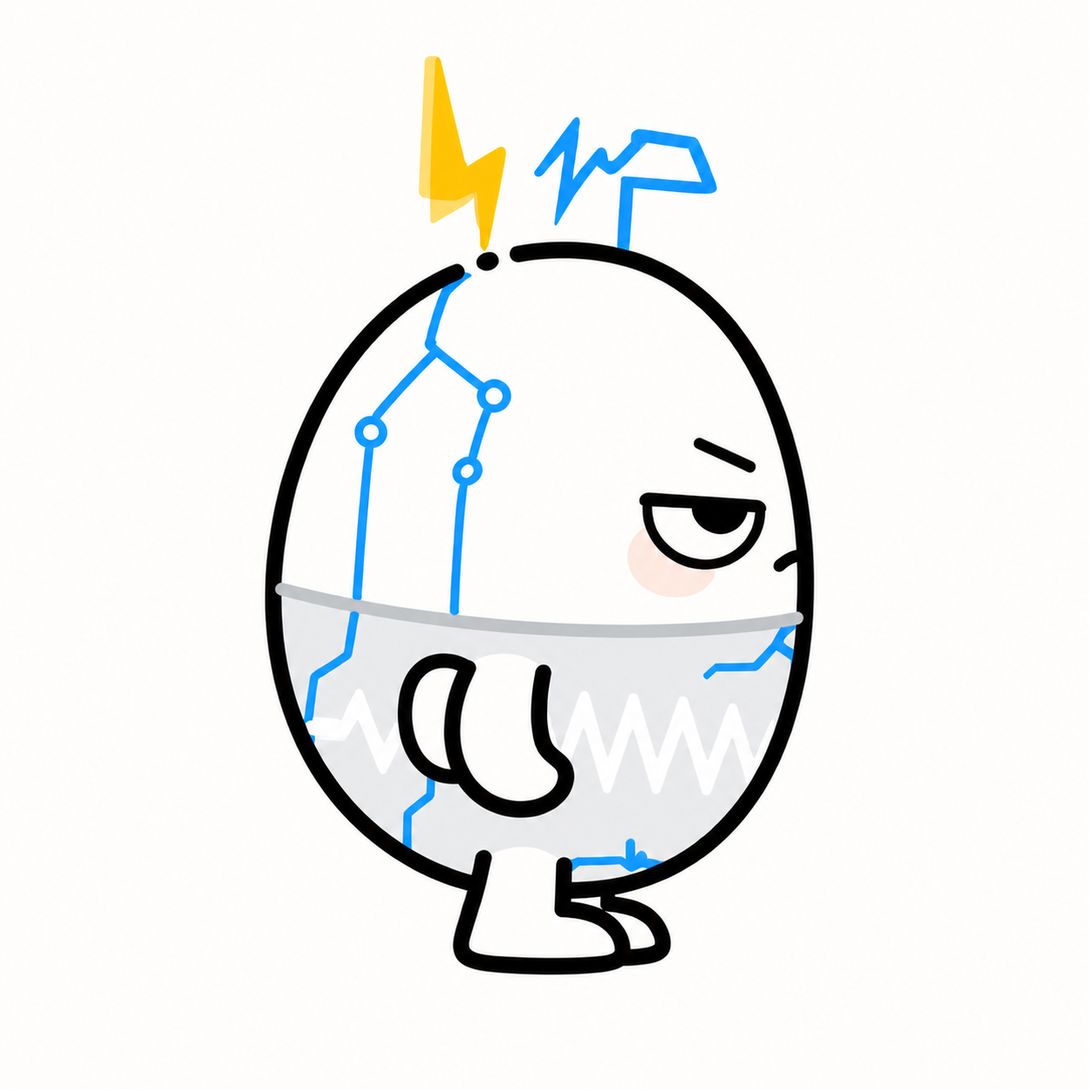
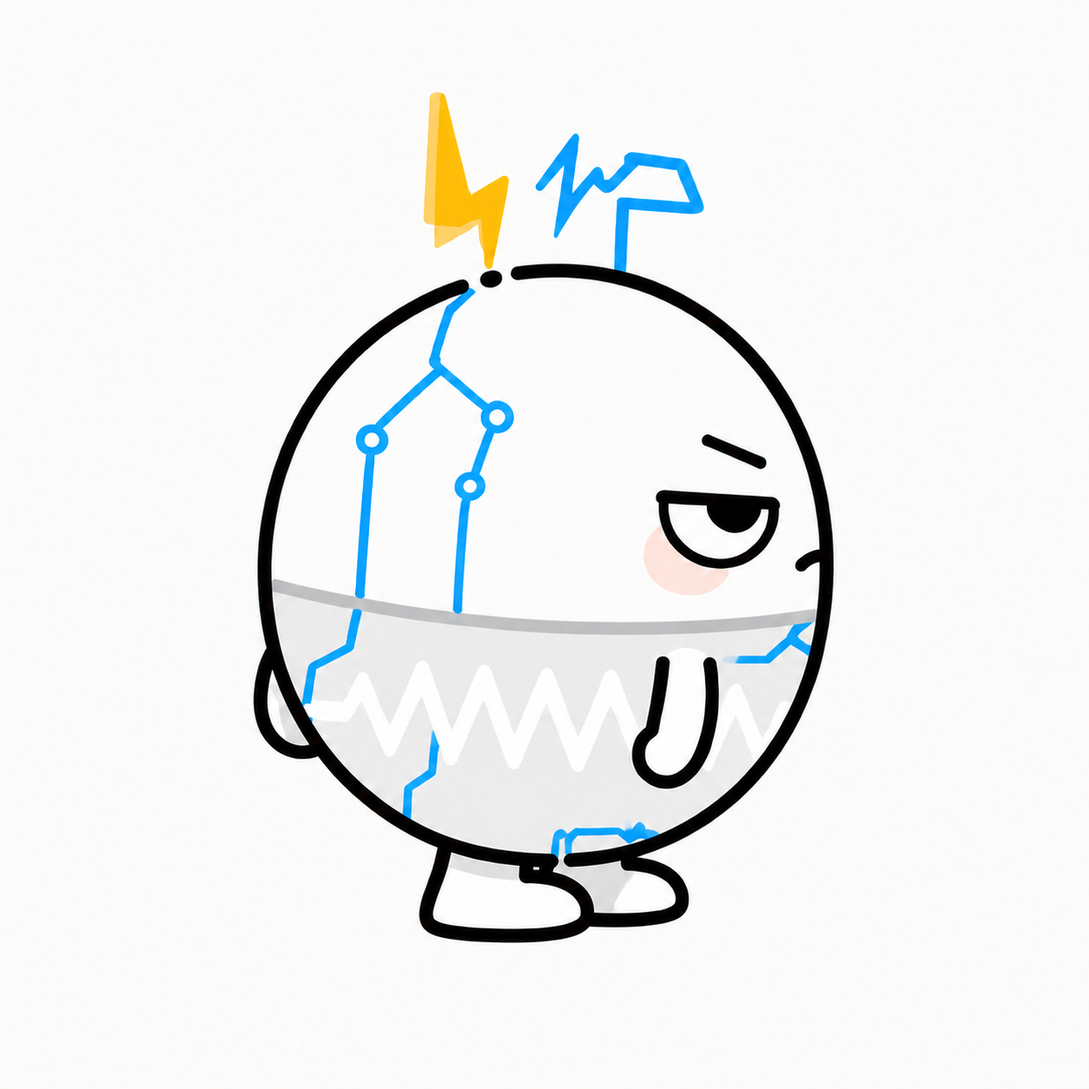
fix: restore mascot right-view roundness

Changed region(s): [[0.2177, 0.0311, 0.7775, 0.9019], [0.311, 0.311, 0.3421, 0.3421]]

diff --git a/episodes/014-nobody-spoils-you-buff/04-prompts/video-prompts-v1.md b/episodes/014-nobody-spoils-you-buff/04-prompts/video-prompts-v1.md
@@ -7,11 +7,11 @@
 ```text
 【输出规格与关键帧】生成2.5秒、竖屏9:16、原创Q版二维手绘图生有声视频。首帧严格使用03-visuals/keyframes-v1/01-street-xiaohao.png；固定正面中近景，不改变街道、人物比例和留白。尾帧小耗儿闭嘴并完全静止至少0.25秒。
 
-【永久身份锁定】assets/brand/resistor-mascot-identity-master-original.jpg是小耗儿唯一身份与结构参考。保持单一白色蛋形身体、浅灰电阻区域、白色锯齿纹、蓝色电路纹、头顶黄色闪电与蓝色电脉冲、两只短手、两条极短腿、半垂眼和唯一无牙短黑嘴。禁止老鼠耳朵、尾巴、毛发、长鼻、长腿、牙齿、舌头、衣服和额外肢体。画面内只有一个小耗儿。
+【永久身份锁定】assets/brand/resistor-mascot-identity-master-original.jpg是小耗儿唯一身份与结构参考。保持横向饱满的单一白色近圆身体与永久母版圆度，禁止纵向鸡蛋化；同时保持浅灰电阻区域、白色锯齿纹、蓝色电路纹、头顶黄色闪电与蓝色电脉冲、两只短手、两条极短腿、半垂眼和唯一无牙短黑嘴。禁止老鼠耳朵、尾巴、毛发、长鼻、长腿、牙齿、舌头、衣服和额外肢体。画面内只有一个小耗儿。
 
 【本镜头角度参考】永久身份参考：assets/brand/resistor-mascot-identity-master-original.jpg；正面角度参考：assets/brand/resistor-mascot-multiview-v1/01-front-master-original.jpg；首帧场景参考：03-visuals/keyframes-v1/01-street-xiaohao.png。原版母版优先级最高，角度参考和首帧都不得覆盖原版身份。
 
-【逐帧身份锁｜最高优先级】从第0帧到最后一帧，小耗儿必须始终是关键帧和多视图母版中的同一个角色，不允许动画过程重新设计、补全或重绘角色。逐帧锁定单一白色圆蛋机体的外轮廓与宽高比、五官几何和位置、淡粉脸颊、浅灰电阻区高度、连续白色锯齿纹、蓝色电路纹布局、头顶黄色闪电与蓝色电脉冲、两只短圆手、两条极短腿、白色圆脚及唯一无牙小嘴；并按当前角度维持正确可见性，完全背面严禁生成眼睛、眉毛、脸颊或嘴，纯侧面严禁同时露出两套正面五官。除本镜头明确允许的自然无牙口型和唯一小幅动作外，任何结构、比例、颜色、材质、纹路和肢体数量都不得变化。遮挡不能导致身体部件消失，运动不能用拉伸、融化、变形、残影或临时新肢体补帧。禁止变脸、变瘦、变高、长出鼠耳鼠尾、牙齿舌头、长手长腿、额外手脚、第二身体；禁止腰带漂移、锯齿纹重排、电路纹跳位、头顶标志变形或左右乱换；禁止中途换画风、换材质、换服装或换角色。若动作与身份一致性冲突，必须减小动作或保持静止，绝不牺牲角色一致性。
+【逐帧身份锁｜最高优先级】从第0帧到最后一帧，小耗儿必须始终是关键帧和多视图母版中的同一个角色，不允许动画过程重新设计、补全或重绘角色。逐帧锁定横向饱满的单一白色近圆机体、永久母版圆度与宽高比；圆度只测机体本体，不含头顶标志和手脚，正面、背面和 3/4 的宽度不得低于高度的 95%，纯侧面不得低于 92%，任何帧和任何角度都禁止纵向拉长成鸡蛋形。逐帧锁定五官几何和位置、淡粉脸颊、浅灰电阻区高度、连续白色锯齿纹、蓝色电路纹布局、头顶黄色闪电与蓝色电脉冲、两只短圆手、两条极短腿、白色圆脚及唯一无牙小嘴；并按当前角度维持正确可见性，完全背面严禁生成眼睛、眉毛、脸颊或嘴，纯侧面严禁同时露出两套正面五官。除本镜头明确允许的自然无牙口型和唯一小幅动作外，任何结构、比例、颜色、材质、纹路和肢体数量都不得变化。遮挡不能导致身体部件消失，运动不能用拉伸、融化、变形、残影或临时新肢体补帧。禁止变脸、变瘦、变高、长出鼠耳鼠尾、牙齿舌头、长手长腿、额外手脚、第二身体；禁止腰带漂移、锯齿纹重排、电路纹跳位、头顶标志变形或左右乱换；禁止中途换画风、换材质、换服装或换角色。若动作与身份一致性冲突，必须减小动作或保持静止，绝不牺牲角色一致性。
 
 【有声输出硬要求】本片段必须生成并保留可听见的同步中文人声，生成源片和交付视频都必须有非空音轨。禁止静音，禁止只有口型、只有字幕、只有环境声或省略对白。
 
@@ -35,11 +35,11 @@
 ```text
 【输出规格与关键帧】生成2.5秒、竖屏9:16、原创Q版二维手绘图生有声视频。首帧严格使用03-visuals/keyframes-v1/02-childhood-flashback.png；固定中景，不改变客厅、两名角色、站位和光线。尾帧所有人物闭嘴静止至少0.25秒。
 
-【身份与连续性】童年小耗儿必须与永久母版是同一身份和同一拓扑，只允许整体比例略小；保持白色蛋形身体、灰色电阻区、锯齿纹、蓝色电路纹、黄蓝头顶标志、短手短脚、半垂眼和唯一无牙小嘴。母亲是暖棕短发、桃色针织外套、深色长裤的一次性Q版成年女性NPC，保持闭嘴指向地面的既有姿势。恰好两名角色。
+【身份与连续性】童年小耗儿必须与永久母版是同一身份和同一拓扑，只允许整体比例略小；保持横向饱满的白色近圆身体与同等圆度，禁止纵向鸡蛋化；同时保持灰色电阻区、锯齿纹、蓝色电路纹、黄蓝头顶标志、短手短脚、半垂眼和唯一无牙小嘴。母亲是暖棕短发、桃色针织外套、深色长裤的一次性Q版成年女性NPC，保持闭嘴指向地面的既有姿势。恰好两名角色。
 
 【本镜头角度参考】永久身份参考：assets/brand/resistor-mascot-identity-master-original.jpg；正面角度参考：assets/brand/resistor-mascot-multiview-v1/01-front-master-original.jpg；首帧场景参考：03-visuals/keyframes-v1/02-childhood-flashback.png。童年版只允许等比例缩小，不允许幼儿化重设计。
 
-【逐帧身份锁｜最高优先级】从第0帧到最后一帧，小耗儿必须始终是关键帧和多视图母版中的同一个角色，不允许动画过程重新设计、补全或重绘角色。逐帧锁定单一白色圆蛋机体的外轮廓与宽高比、五官几何和位置、淡粉脸颊、浅灰电阻区高度、连续白色锯齿纹、蓝色电路纹布局、头顶黄色闪电与蓝色电脉冲、两只短圆手、两条极短腿、白色圆脚及唯一无牙小嘴；并按当前角度维持正确可见性，完全背面严禁生成眼睛、眉毛、脸颊或嘴，纯侧面严禁同时露出两套正面五官。除本镜头明确允许的自然无牙口型和唯一小幅动作外，任何结构、比例、颜色、材质、纹路和肢体数量都不得变化。遮挡不能导致身体部件消失，运动不能用拉伸、融化、变形、残影或临时新肢体补帧。禁止变脸、变瘦、变高、长出鼠耳鼠尾、牙齿舌头、长手长腿、额外手脚、第二身体；禁止腰带漂移、锯齿纹重排、电路纹跳位、头顶标志变形或左右乱换；禁止中途换画风、换材质、换服装或换角色。若动作与身份一致性冲突，必须减小动作或保持静止，绝不牺牲角色一致性。
+【逐帧身份锁｜最高优先级】从第0帧到最后一帧，小耗儿必须始终是关键帧和多视图母版中的同一个角色，不允许动画过程重新设计、补全或重绘角色。逐帧锁定横向饱满的单一白色近圆机体、永久母版圆度与宽高比；圆度只测机体本体，不含头顶标志和手脚，正面、背面和 3/4 的宽度不得低于高度的 95%，纯侧面不得低于 92%，任何帧和任何角度都禁止纵向拉长成鸡蛋形。逐帧锁定五官几何和位置、淡粉脸颊、浅灰电阻区高度、连续白色锯齿纹、蓝色电路纹布局、头顶黄色闪电与蓝色电脉冲、两只短圆手、两条极短腿、白色圆脚及唯一无牙小嘴；并按当前角度维持正确可见性，完全背面严禁生成眼睛、眉毛、脸颊或嘴，纯侧面严禁同时露出两套正面五官。除本镜头明确允许的自然无牙口型和唯一小幅动作外，任何结构、比例、颜色、材质、纹路和肢体数量都不得变化。遮挡不能导致身体部件消失，运动不能用拉伸、融化、变形、残影或临时新肢体补帧。禁止变脸、变瘦、变高、长出鼠耳鼠尾、牙齿舌头、长手长腿、额外手脚、第二身体；禁止腰带漂移、锯齿纹重排、电路纹跳位、头顶标志变形或左右乱换；禁止中途换画风、换材质、换服装或换角色。若动作与身份一致性冲突，必须减小动作或保持静止，绝不牺牲角色一致性。
 
 【有声输出硬要求】本片段必须生成并保留可听见的小耗儿中文旁白，生成源片和交付视频都必须有非空音轨。禁止静音，禁止母亲说话，禁止只有环境声或省略旁白。
 
@@ -67,7 +67,7 @@
 
 【本镜头角度参考】永久身份参考：assets/brand/resistor-mascot-identity-master-original.jpg；正面角度参考：assets/brand/resistor-mascot-multiview-v1/01-front-master-original.jpg；首帧场景参考：03-visuals/keyframes-v1/03-noodle-beef-overflow.png。固定小耗儿面向与首帧一致，禁止转身。
 
-【逐帧身份锁｜最高优先级】从第0帧到最后一帧，小耗儿必须始终是关键帧和多视图母版中的同一个角色，不允许动画过程重新设计、补全或重绘角色。逐帧锁定单一白色圆蛋机体的外轮廓与宽高比、五官几何和位置、淡粉脸颊、浅灰电阻区高度、连续白色锯齿纹、蓝色电路纹布局、头顶黄色闪电与蓝色电脉冲、两只短圆手、两条极短腿、白色圆脚及唯一无牙小嘴；并按当前角度维持正确可见性，完全背面严禁生成眼睛、眉毛、脸颊或嘴，纯侧面严禁同时露出两套正面五官。除本镜头明确允许的自然无牙口型和唯一小幅动作外，任何结构、比例、颜色、材质、纹路和肢体数量都不得变化。遮挡不能导致身体部件消失，运动不能用拉伸、融化、变形、残影或临时新肢体补帧。禁止变脸、变瘦、变高、长出鼠耳鼠尾、牙齿舌头、长手长腿、额外手脚、第二身体；禁止腰带漂移、锯齿纹重排、电路纹跳位、头顶标志变形或左右乱换；禁止中途换画风、换材质、换服装或换角色。若动作与身份一致性冲突，必须减小动作或保持静止，绝不牺牲角色一致性。
+【逐帧身份锁｜最高优先级】从第0帧到最后一帧，小耗儿必须始终是关键帧和多视图母版中的同一个角色，不允许动画过程重新设计、补全或重绘角色。逐帧锁定横向饱满的单一白色近圆机体、永久母版圆度与宽高比；圆度只测机体本体，不含头顶标志和手脚，正面、背面和 3/4 的宽度不得低于高度的 95%，纯侧面不得低于 92%，任何帧和任何角度都禁止纵向拉长成鸡蛋形。逐帧锁定五官几何和位置、淡粉脸颊、浅灰电阻区高度、连续白色锯齿纹、蓝色电路纹布局、头顶黄色闪电与蓝色电脉冲、两只短圆手、两条极短腿、白色圆脚及唯一无牙小嘴；并按当前角度维持正确可见性，完全背面严禁生成眼睛、眉毛、脸颊或嘴，纯侧面严禁同时露出两套正面五官。除本镜头明确允许的自然无牙口型和唯一小幅动作外，任何结构、比例、颜色、材质、纹路和肢体数量都不得变化。遮挡不能导致身体部件消失，运动不能用拉伸、融化、变形、残影或临时新肢体补帧。禁止变脸、变瘦、变高、长出鼠耳鼠尾、牙齿舌头、长手长腿、额外手脚、第二身体；禁止腰带漂移、锯齿纹重排、电路纹跳位、头顶标志变形或左右乱换；禁止中途换画风、换材质、换服装或换角色。若动作与身份一致性冲突，必须减小动作或保持静止，绝不牺牲角色一致性。
 
 【有声输出硬要求】本片段必须生成并保留可听见的同步中文NPC人声，生成源片和交付视频都必须有非空音轨。禁止静音、只有口型、只有环境声或省略对白。
 
@@ -95,7 +95,7 @@
 
 【本镜头角度参考】永久身份参考：assets/brand/resistor-mascot-identity-master-original.jpg；正面角度参考：assets/brand/resistor-mascot-multiview-v1/01-front-master-original.jpg；首帧场景参考：03-visuals/keyframes-v1/04-convenience-coins.png。小耗儿手臂必须保持母版短圆长度，袋子靠近身体，禁止用伸长手臂完成递接。
 
-【逐帧身份锁｜最高优先级】从第0帧到最后一帧，小耗儿必须始终是关键帧和多视图母版中的同一个角色，不允许动画过程重新设计、补全或重绘角色。逐帧锁定单一白色圆蛋机体的外轮廓与宽高比、五官几何和位置、淡粉脸颊、浅灰电阻区高度、连续白色锯齿纹、蓝色电路纹布局、头顶黄色闪电与蓝色电脉冲、两只短圆手、两条极短腿、白色圆脚及唯一无牙小嘴；并按当前角度维持正确可见性，完全背面严禁生成眼睛、眉毛、脸颊或嘴，纯侧面严禁同时露出两套正面五官。除本镜头明确允许的自然无牙口型和唯一小幅动作外，任何结构、比例、颜色、材质、纹路和肢体数量都不得变化。遮挡不能导致身体部件消失，运动不能用拉伸、融化、变形、残影或临时新肢体补帧。禁止变脸、变瘦、变高、长出鼠耳鼠尾、牙齿舌头、长手长腿、额外手脚、第二身体；禁止腰带漂移、锯齿纹重排、电路纹跳位、头顶标志变形或左右乱换；禁止中途换画风、换材质、换服装或换角色。若动作与身份一致性冲突，必须减小动作或保持静止，绝不牺牲角色一致性。
+【逐帧身份锁｜最高优先级】从第0帧到最后一帧，小耗儿必须始终是关键帧和多视图母版中的同一个角色，不允许动画过程重新设计、补全或重绘角色。逐帧锁定横向饱满的单一白色近圆机体、永久母版圆度与宽高比；圆度只测机体本体，不含头顶标志和手脚，正面、背面和 3/4 的宽度不得低于高度的 95%，纯侧面不得低于 92%，任何帧和任何角度都禁止纵向拉长成鸡蛋形。逐帧锁定五官几何和位置、淡粉脸颊、浅灰电阻区高度、连续白色锯齿纹、蓝色电路纹布局、头顶黄色闪电与蓝色电脉冲、两只短圆手、两条极短腿、白色圆脚及唯一无牙小嘴；并按当前角度维持正确可见性，完全背面严禁生成眼睛、眉毛、脸颊或嘴，纯侧面严禁同时露出两套正面五官。除本镜头明确允许的自然无牙口型和唯一小幅动作外，任何结构、比例、颜色、材质、纹路和肢体数量都不得变化。遮挡不能导致身体部件消失，运动不能用拉伸、融化、变形、残影或临时新肢体补帧。禁止变脸、变瘦、变高、长出鼠耳鼠尾、牙齿舌头、长手长腿、额外手脚、第二身体；禁止腰带漂移、锯齿纹重排、电路纹跳位、头顶标志变形或左右乱换；禁止中途换画风、换材质、换服装或换角色。若动作与身份一致性冲突，必须减小动作或保持静止，绝不牺牲角色一致性。
 
 【有声输出硬要求】本片段必须生成并保留可听见的同步中文NPC人声，生成源片和交付视频都必须有非空音轨。禁止静音、只有口型、只有环境声或省略对白。
 
@@ -123,7 +123,7 @@
 
 【本镜头角度参考】永久身份参考：assets/brand/resistor-mascot-identity-master-original.jpg；正面角度参考：assets/brand/resistor-mascot-multiview-v1/01-front-master-original.jpg；首帧场景参考：03-visuals/keyframes-v1/05-milktea-pudding.png。固定小耗儿面向与首帧一致，禁止转身或四肢伸长。
 
-【逐帧身份锁｜最高优先级】从第0帧到最后一帧，小耗儿必须始终是关键帧和多视图母版中的同一个角色，不允许动画过程重新设计、补全或重绘角色。逐帧锁定单一白色圆蛋机体的外轮廓与宽高比、五官几何和位置、淡粉脸颊、浅灰电阻区高度、连续白色锯齿纹、蓝色电路纹布局、头顶黄色闪电与蓝色电脉冲、两只短圆手、两条极短腿、白色圆脚及唯一无牙小嘴；并按当前角度维持正确可见性，完全背面严禁生成眼睛、眉毛、脸颊或嘴，纯侧面严禁同时露出两套正面五官。除本镜头明确允许的自然无牙口型和唯一小幅动作外，任何结构、比例、颜色、材质、纹路和肢体数量都不得变化。遮挡不能导致身体部件消失，运动不能用拉伸、融化、变形、残影或临时新肢体补帧。禁止变脸、变瘦、变高、长出鼠耳鼠尾、牙齿舌头、长手长腿、额外手脚、第二身体；禁止腰带漂移、锯齿纹重排、电路纹跳位、头顶标志变形或左右乱换；禁止中途换画风、换材质、换服装或换角色。若动作与身份一致性冲突，必须减小动作或保持静止，绝不牺牲角色一致性。
+【逐帧身份锁｜最高优先级】从第0帧到最后一帧，小耗儿必须始终是关键帧和多视图母版中的同一个角色，不允许动画过程重新设计、补全或重绘角色。逐帧锁定横向饱满的单一白色近圆机体、永久母版圆度与宽高比；圆度只测机体本体，不含头顶标志和手脚，正面、背面和 3/4 的宽度不得低于高度的 95%，纯侧面不得低于 92%，任何帧和任何角度都禁止纵向拉长成鸡蛋形。逐帧锁定五官几何和位置、淡粉脸颊、浅灰电阻区高度、连续白色锯齿纹、蓝色电路纹布局、头顶黄色闪电与蓝色电脉冲、两只短圆手、两条极短腿、白色圆脚及唯一无牙小嘴；并按当前角度维持正确可见性，完全背面严禁生成眼睛、眉毛、脸颊或嘴，纯侧面严禁同时露出两套正面五官。除本镜头明确允许的自然无牙口型和唯一小幅动作外，任何结构、比例、颜色、材质、纹路和肢体数量都不得变化。遮挡不能导致身体部件消失，运动不能用拉伸、融化、变形、残影或临时新肢体补帧。禁止变脸、变瘦、变高、长出鼠耳鼠尾、牙齿舌头、长手长腿、额外手脚、第二身体；禁止腰带漂移、锯齿纹重排、电路纹跳位、头顶标志变形或左右乱换；禁止中途换画风、换材质、换服装或换角色。若动作与身份一致性冲突，必须减小动作或保持静止，绝不牺牲角色一致性。
 
 【有声输出硬要求】本片段必须生成并保留可听见的同步中文NPC人声，生成源片和交付视频都必须有非空音轨。禁止静音、只有口型、只有环境声或省略对白。
 
@@ -151,7 +151,7 @@
 
 【本镜头角度参考】永久身份参考：assets/brand/resistor-mascot-identity-master-original.jpg；正面角度参考：assets/brand/resistor-mascot-multiview-v1/01-front-master-original.jpg；首帧场景参考：03-visuals/keyframes-v1/06-delivery-doorstep.png。小耗儿保持门内正面站姿，禁止转身或拉长手脚。
 
-【逐帧身份锁｜最高优先级】从第0帧到最后一帧，小耗儿必须始终是关键帧和多视图母版中的同一个角色，不允许动画过程重新设计、补全或重绘角色。逐帧锁定单一白色圆蛋机体的外轮廓与宽高比、五官几何和位置、淡粉脸颊、浅灰电阻区高度、连续白色锯齿纹、蓝色电路纹布局、头顶黄色闪电与蓝色电脉冲、两只短圆手、两条极短腿、白色圆脚及唯一无牙小嘴；并按当前角度维持正确可见性，完全背面严禁生成眼睛、眉毛、脸颊或嘴，纯侧面严禁同时露出两套正面五官。除本镜头明确允许的自然无牙口型和唯一小幅动作外，任何结构、比例、颜色、材质、纹路和肢体数量都不得变化。遮挡不能导致身体部件消失，运动不能用拉伸、融化、变形、残影或临时新肢体补帧。禁止变脸、变瘦、变高、长出鼠耳鼠尾、牙齿舌头、长手长腿、额外手脚、第二身体；禁止腰带漂移、锯齿纹重排、电路纹跳位、头顶标志变形或左右乱换；禁止中途换画风、换材质、换服装或换角色。若动作与身份一致性冲突，必须减小动作或保持静止，绝不牺牲角色一致性。
+【逐帧身份锁｜最高优先级】从第0帧到最后一帧，小耗儿必须始终是关键帧和多视图母版中的同一个角色，不允许动画过程重新设计、补全或重绘角色。逐帧锁定横向饱满的单一白色近圆机体、永久母版圆度与宽高比；圆度只测机体本体，不含头顶标志和手脚，正面、背面和 3/4 的宽度不得低于高度的 95%，纯侧面不得低于 92%，任何帧和任何角度都禁止纵向拉长成鸡蛋形。逐帧锁定五官几何和位置、淡粉脸颊、浅灰电阻区高度、连续白色锯齿纹、蓝色电路纹布局、头顶黄色闪电与蓝色电脉冲、两只短圆手、两条极短腿、白色圆脚及唯一无牙小嘴；并按当前角度维持正确可见性，完全背面严禁生成眼睛、眉毛、脸颊或嘴，纯侧面严禁同时露出两套正面五官。除本镜头明确允许的自然无牙口型和唯一小幅动作外，任何结构、比例、颜色、材质、纹路和肢体数量都不得变化。遮挡不能导致身体部件消失，运动不能用拉伸、融化、变形、残影或临时新肢体补帧。禁止变脸、变瘦、变高、长出鼠耳鼠尾、牙齿舌头、长手长腿、额外手脚、第二身体；禁止腰带漂移、锯齿纹重排、电路纹跳位、头顶标志变形或左右乱换；禁止中途换画风、换材质、换服装或换角色。若动作与身份一致性冲突，必须减小动作或保持静止，绝不牺牲角色一致性。
 
 【有声输出硬要求】本片段必须生成并保留可听见的同步中文NPC人声，生成源片和交付视频都必须有非空音轨。禁止静音、只有口型、只有环境声或省略对白。
 
@@ -179,7 +179,7 @@
 
 【本镜头角度参考】永久身份参考：assets/brand/resistor-mascot-identity-master-original.jpg；正面角度参考：assets/brand/resistor-mascot-multiview-v1/01-front-master-original.jpg；首帧场景参考：03-visuals/keyframes-v1/07-office-power-off.png。桌面遮挡不等于四肢消失，模型不得补造长腿或新手臂。
 
-【逐帧身份锁｜最高优先级】从第0帧到最后一帧，小耗儿必须始终是关键帧和多视图母版中的同一个角色，不允许动画过程重新设计、补全或重绘角色。逐帧锁定单一白色圆蛋机体的外轮廓与宽高比、五官几何和位置、淡粉脸颊、浅灰电阻区高度、连续白色锯齿纹、蓝色电路纹布局、头顶黄色闪电与蓝色电脉冲、两只短圆手、两条极短腿、白色圆脚及唯一无牙小嘴；并按当前角度维持正确可见性，完全背面严禁生成眼睛、眉毛、脸颊或嘴，纯侧面严禁同时露出两套正面五官。除本镜头明确允许的自然无牙口型和唯一小幅动作外，任何结构、比例、颜色、材质、纹路和肢体数量都不得变化。遮挡不能导致身体部件消失，运动不能用拉伸、融化、变形、残影或临时新肢体补帧。禁止变脸、变瘦、变高、长出鼠耳鼠尾、牙齿舌头、长手长腿、额外手脚、第二身体；禁止腰带漂移、锯齿纹重排、电路纹跳位、头顶标志变形或左右乱换；禁止中途换画风、换材质、换服装或换角色。若动作与身份一致性冲突，必须减小动作或保持静止，绝不牺牲角色一致性。
+【逐帧身份锁｜最高优先级】从第0帧到最后一帧，小耗儿必须始终是关键帧和多视图母版中的同一个角色，不允许动画过程重新设计、补全或重绘角色。逐帧锁定横向饱满的单一白色近圆机体、永久母版圆度与宽高比；圆度只测机体本体，不含头顶标志和手脚，正面、背面和 3/4 的宽度不得低于高度的 95%，纯侧面不得低于 92%，任何帧和任何角度都禁止纵向拉长成鸡蛋形。逐帧锁定五官几何和位置、淡粉脸颊、浅灰电阻区高度、连续白色锯齿纹、蓝色电路纹布局、头顶黄色闪电与蓝色电脉冲、两只短圆手、两条极短腿、白色圆脚及唯一无牙小嘴；并按当前角度维持正确可见性，完全背面严禁生成眼睛、眉毛、脸颊或嘴，纯侧面严禁同时露出两套正面五官。除本镜头明确允许的自然无牙口型和唯一小幅动作外，任何结构、比例、颜色、材质、纹路和肢体数量都不得变化。遮挡不能导致身体部件消失，运动不能用拉伸、融化、变形、残影或临时新肢体补帧。禁止变脸、变瘦、变高、长出鼠耳鼠尾、牙齿舌头、长手长腿、额外手脚、第二身体；禁止腰带漂移、锯齿纹重排、电路纹跳位、头顶标志变形或左右乱换；禁止中途换画风、换材质、换服装或换角色。若动作与身份一致性冲突，必须减小动作或保持静止，绝不牺牲角色一致性。
 
 【有声输出硬要求】本片段必须生成并保留可听见的同步中文NPC人声，生成源片和交付视频都必须有非空音轨。禁止静音、只有口型、只有环境声或省略对白。
 
@@ -207,7 +207,7 @@
 
 【本镜头角度参考】永久身份参考：assets/brand/resistor-mascot-identity-master-original.jpg；正面角度参考：assets/brand/resistor-mascot-multiview-v1/01-front-master-original.jpg；首帧场景参考：03-visuals/keyframes-v1/08-salon-black-card.png。小耗儿身体和短手保持首帧位置，禁止为接卡伸长手臂。
 
-【逐帧身份锁｜最高优先级】从第0帧到最后一帧，小耗儿必须始终是关键帧和多视图母版中的同一个角色，不允许动画过程重新设计、补全或重绘角色。逐帧锁定单一白色圆蛋机体的外轮廓与宽高比、五官几何和位置、淡粉脸颊、浅灰电阻区高度、连续白色锯齿纹、蓝色电路纹布局、头顶黄色闪电与蓝色电脉冲、两只短圆手、两条极短腿、白色圆脚及唯一无牙小嘴；并按当前角度维持正确可见性，完全背面严禁生成眼睛、眉毛、脸颊或嘴，纯侧面严禁同时露出两套正面五官。除本镜头明确允许的自然无牙口型和唯一小幅动作外，任何结构、比例、颜色、材质、纹路和肢体数量都不得变化。遮挡不能导致身体部件消失，运动不能用拉伸、融化、变形、残影或临时新肢体补帧。禁止变脸、变瘦、变高、长出鼠耳鼠尾、牙齿舌头、长手长腿、额外手脚、第二身体；禁止腰带漂移、锯齿纹重排、电路纹跳位、头顶标志变形或左右乱换；禁止中途换画风、换材质、换服装或换角色。若动作与身份一致性冲突，必须减小动作或保持静止，绝不牺牲角色一致性。
+【逐帧身份锁｜最高优先级】从第0帧到最后一帧，小耗儿必须始终是关键帧和多视图母版中的同一个角色，不允许动画过程重新设计、补全或重绘角色。逐帧锁定横向饱满的单一白色近圆机体、永久母版圆度与宽高比；圆度只测机体本体，不含头顶标志和手脚，正面、背面和 3/4 的宽度不得低于高度的 95%，纯侧面不得低于 92%，任何帧和任何角度都禁止纵向拉长成鸡蛋形。逐帧锁定五官几何和位置、淡粉脸颊、浅灰电阻区高度、连续白色锯齿纹、蓝色电路纹布局、头顶黄色闪电与蓝色电脉冲、两只短圆手、两条极短腿、白色圆脚及唯一无牙小嘴；并按当前角度维持正确可见性，完全背面严禁生成眼睛、眉毛、脸颊或嘴，纯侧面严禁同时露出两套正面五官。除本镜头明确允许的自然无牙口型和唯一小幅动作外，任何结构、比例、颜色、材质、纹路和肢体数量都不得变化。遮挡不能导致身体部件消失，运动不能用拉伸、融化、变形、残影或临时新肢体补帧。禁止变脸、变瘦、变高、长出鼠耳鼠尾、牙齿舌头、长手长腿、额外手脚、第二身体；禁止腰带漂移、锯齿纹重排、电路纹跳位、头顶标志变形或左右乱换；禁止中途换画风、换材质、换服装或换角色。若动作与身份一致性冲突，必须减小动作或保持静止，绝不牺牲角色一致性。
 
 【有声输出硬要求】本片段必须生成并保留可听见的同步中文NPC人声，生成源片和交付视频都必须有非空音轨。禁止静音、只有口型、只有环境声或省略对白。
 
@@ -231,11 +231,11 @@
 ```text
 【输出规格与关键帧】生成3.0秒、竖屏9:16、原创Q版二维手绘图生有声视频。首帧严格使用03-visuals/keyframes-v1/09-burdened-with-benefits.png；固定正面中景偏全身，保持一个小耗儿及全部固定道具数量和位置。尾帧人物、道具和嘴完全静止至少0.25秒。
 
-【永久身份与道具锁定】小耗儿严格保持永久母版单一白色蛋形身体、灰色电阻区、锯齿纹、蓝色电路纹、黄蓝头顶标志、两只贴身短手、两条极短腿和唯一无牙小嘴。固定道具恰好为：左侧纸箱上的一个满牛肉白碗、中间纸箱上的一只装满无符号银灰圆片的厚透明袋、右侧纸箱上的一个满布丁无字透明杯、脚边恰好三个无字纸箱、中间纸箱前斜靠的一张无字黑金卡。脸与机体必须完整可见，道具不得复制、消失、悬浮或掉落。
+【永久身份与道具锁定】小耗儿严格保持永久母版横向饱满的单一白色近圆身体与固定圆度，禁止纵向鸡蛋化；同时保持灰色电阻区、锯齿纹、蓝色电路纹、黄蓝头顶标志、两只贴身短手、两条极短腿和唯一无牙小嘴。固定道具恰好为：左侧纸箱上的一个满牛肉白碗、中间纸箱上的一只装满无符号银灰圆片的厚透明袋、右侧纸箱上的一个满布丁无字透明杯、脚边恰好三个无字纸箱、中间纸箱前斜靠的一张无字黑金卡。脸与机体必须完整可见，道具不得复制、消失、悬浮或掉落。
 
 【本镜头角度参考】永久身份参考：assets/brand/resistor-mascot-identity-master-original.jpg；正面角度参考：assets/brand/resistor-mascot-multiview-v1/01-front-master-original.jpg；首帧场景参考：03-visuals/keyframes-v1/09-burdened-with-benefits.png。全部道具稳放在脚边纸箱上或靠在箱前，不由小耗儿承重；两只手臂始终贴身，绝不伸长成人类手臂。
 
-【逐帧身份锁｜最高优先级】从第0帧到最后一帧，小耗儿必须始终是关键帧和多视图母版中的同一个角色，不允许动画过程重新设计、补全或重绘角色。逐帧锁定单一白色圆蛋机体的外轮廓与宽高比、五官几何和位置、淡粉脸颊、浅灰电阻区高度、连续白色锯齿纹、蓝色电路纹布局、头顶黄色闪电与蓝色电脉冲、两只短圆手、两条极短腿、白色圆脚及唯一无牙小嘴；并按当前角度维持正确可见性，完全背面严禁生成眼睛、眉毛、脸颊或嘴，纯侧面严禁同时露出两套正面五官。除本镜头明确允许的自然无牙口型和唯一小幅动作外，任何结构、比例、颜色、材质、纹路和肢体数量都不得变化。遮挡不能导致身体部件消失，运动不能用拉伸、融化、变形、残影或临时新肢体补帧。禁止变脸、变瘦、变高、长出鼠耳鼠尾、牙齿舌头、长手长腿、额外手脚、第二身体；禁止腰带漂移、锯齿纹重排、电路纹跳位、头顶标志变形或左右乱换；禁止中途换画风、换材质、换服装或换角色。若动作与身份一致性冲突，必须减小动作或保持静止，绝不牺牲角色一致性。
+【逐帧身份锁｜最高优先级】从第0帧到最后一帧，小耗儿必须始终是关键帧和多视图母版中的同一个角色，不允许动画过程重新设计、补全或重绘角色。逐帧锁定横向饱满的单一白色近圆机体、永久母版圆度与宽高比；圆度只测机体本体，不含头顶标志和手脚，正面、背面和 3/4 的宽度不得低于高度的 95%，纯侧面不得低于 92%，任何帧和任何角度都禁止纵向拉长成鸡蛋形。逐帧锁定五官几何和位置、淡粉脸颊、浅灰电阻区高度、连续白色锯齿纹、蓝色电路纹布局、头顶黄色闪电与蓝色电脉冲、两只短圆手、两条极短腿、白色圆脚及唯一无牙小嘴；并按当前角度维持正确可见性，完全背面严禁生成眼睛、眉毛、脸颊或嘴，纯侧面严禁同时露出两套正面五官。除本镜头明确允许的自然无牙口型和唯一小幅动作外，任何结构、比例、颜色、材质、纹路和肢体数量都不得变化。遮挡不能导致身体部件消失，运动不能用拉伸、融化、变形、残影或临时新肢体补帧。禁止变脸、变瘦、变高、长出鼠耳鼠尾、牙齿舌头、长手长腿、额外手脚、第二身体；禁止腰带漂移、锯齿纹重排、电路纹跳位、头顶标志变形或左右乱换；禁止中途换画风、换材质、换服装或换角色。若动作与身份一致性冲突，必须减小动作或保持静止，绝不牺牲角色一致性。
 
 【有声输出硬要求】本片段必须生成并保留可听见的同步中文小耗儿人声，生成源片和交付视频都必须有非空音轨。禁止静音、只有口型、只有环境声或省略对白。
 
@@ -259,11 +259,11 @@
 ```text
 【输出规格与关键帧】生成4.0秒、竖屏9:16、原创Q版二维手绘图生有声视频。首帧严格使用03-visuals/keyframes-v1/10-outro-wink.png；固定正面中近景，保持纯亮黄色背景、人物比例、V手与叉腰姿势。尾帧小耗儿闭嘴，眼睛恢复首帧状态并静止至少0.40秒。
 
-【永久身份锁定】assets/brand/resistor-mascot-identity-master-original.jpg是小耗儿唯一身份与结构参考。保持单一白色蛋形身体、浅灰电阻区域、白色锯齿纹、蓝色电路纹、黄蓝头顶标志、两只短手、两条极短腿和唯一无牙短黑嘴。画面只有一个小耗儿；一只短手从首帧已经摆好简洁V手，另一只短手叉腰。
+【永久身份锁定】assets/brand/resistor-mascot-identity-master-original.jpg是小耗儿唯一身份与结构参考。保持横向饱满的单一白色近圆身体与永久母版圆度，禁止纵向鸡蛋化；同时保持浅灰电阻区域、白色锯齿纹、蓝色电路纹、黄蓝头顶标志、两只短手、两条极短腿和唯一无牙短黑嘴。画面只有一个小耗儿；一只短手从首帧已经摆好简洁V手，另一只短手叉腰。
 
 【本镜头角度参考】永久身份参考：assets/brand/resistor-mascot-identity-master-original.jpg；正面角度参考：assets/brand/resistor-mascot-multiview-v1/01-front-master-original.jpg；首帧场景参考：03-visuals/keyframes-v1/10-outro-wink.png。V手必须在母版短臂可达范围内，另一只手贴近身体，禁止拉长肢体。
 
-【逐帧身份锁｜最高优先级】从第0帧到最后一帧，小耗儿必须始终是关键帧和多视图母版中的同一个角色，不允许动画过程重新设计、补全或重绘角色。逐帧锁定单一白色圆蛋机体的外轮廓与宽高比、五官几何和位置、淡粉脸颊、浅灰电阻区高度、连续白色锯齿纹、蓝色电路纹布局、头顶黄色闪电与蓝色电脉冲、两只短圆手、两条极短腿、白色圆脚及唯一无牙小嘴；并按当前角度维持正确可见性，完全背面严禁生成眼睛、眉毛、脸颊或嘴，纯侧面严禁同时露出两套正面五官。除本镜头明确允许的自然无牙口型和唯一小幅动作外，任何结构、比例、颜色、材质、纹路和肢体数量都不得变化。遮挡不能导致身体部件消失，运动不能用拉伸、融化、变形、残影或临时新肢体补帧。禁止变脸、变瘦、变高、长出鼠耳鼠尾、牙齿舌头、长手长腿、额外手脚、第二身体；禁止腰带漂移、锯齿纹重排、电路纹跳位、头顶标志变形或左右乱换；禁止中途换画风、换材质、换服装或换角色。若动作与身份一致性冲突，必须减小动作或保持静止，绝不牺牲角色一致性。
+【逐帧身份锁｜最高优先级】从第0帧到最后一帧，小耗儿必须始终是关键帧和多视图母版中的同一个角色，不允许动画过程重新设计、补全或重绘角色。逐帧锁定横向饱满的单一白色近圆机体、永久母版圆度与宽高比；圆度只测机体本体，不含头顶标志和手脚，正面、背面和 3/4 的宽度不得低于高度的 95%，纯侧面不得低于 92%，任何帧和任何角度都禁止纵向拉长成鸡蛋形。逐帧锁定五官几何和位置、淡粉脸颊、浅灰电阻区高度、连续白色锯齿纹、蓝色电路纹布局、头顶黄色闪电与蓝色电脉冲、两只短圆手、两条极短腿、白色圆脚及唯一无牙小嘴；并按当前角度维持正确可见性，完全背面严禁生成眼睛、眉毛、脸颊或嘴，纯侧面严禁同时露出两套正面五官。除本镜头明确允许的自然无牙口型和唯一小幅动作外，任何结构、比例、颜色、材质、纹路和肢体数量都不得变化。遮挡不能导致身体部件消失，运动不能用拉伸、融化、变形、残影或临时新肢体补帧。禁止变脸、变瘦、变高、长出鼠耳鼠尾、牙齿舌头、长手长腿、额外手脚、第二身体；禁止腰带漂移、锯齿纹重排、电路纹跳位、头顶标志变形或左右乱换；禁止中途换画风、换材质、换服装或换角色。若动作与身份一致性冲突，必须减小动作或保持静止，绝不牺牲角色一致性。
 
 【有声输出硬要求】本片段必须生成并保留可听见的同步中文小耗儿人声，生成源片和交付视频都必须有非空音轨。禁止静音、只有口型、只有字幕或省略对白。
 

diff --git a/episodes/014-nobody-spoils-you-buff/04-prompts/image-prompts-v1.md b/episodes/014-nobody-spoils-you-buff/04-prompts/image-prompts-v1.md
@@ -2,7 +2,7 @@
 
 ## 全局身份锁定
 
-每张图均为 `illustration-story`，用于抖音竖屏 9:16 AI 动画首帧。`assets/brand/resistor-mascot-identity-master-original.jpg` 是唯一最高身份源；`assets/brand/resistor-mascot-multiview-v1/` 是从原版派生的机位参考，不能覆盖原版。本集小耗儿均为正面或接近正面，因此每条同时引用 `01-front-master-original.jpg`。必须保留单一白色蛋形身体、浅灰电阻区、白色锯齿纹、蓝色电路纹、头顶黄色闪电与蓝色电脉冲、两只短手、两条极短腿、半垂眼和唯一无牙短黑嘴。不得画成老鼠、人类或穿覆盖电阻纹的衣服。
+每张图均为 `illustration-story`，用于抖音竖屏 9:16 AI 动画首帧。`assets/brand/resistor-mascot-identity-master-original.jpg` 是唯一最高身份源；`assets/brand/resistor-mascot-multiview-v1/` 是从原版派生的机位参考，不能覆盖原版。本集小耗儿均为正面或接近正面，因此每条同时引用 `01-front-master-original.jpg`。必须保留横向饱满的单一白色近圆身体与永久母版圆度，禁止纵向鸡蛋化；同时保留浅灰电阻区、白色锯齿纹、蓝色电路纹、头顶黄色闪电与蓝色电脉冲、两只短手、两条极短腿、半垂眼和唯一无牙短黑嘴。不得画成老鼠、人类或穿覆盖电阻纹的衣服。
 
 统一风格：原创 Q 版二维手绘动画，粗黑轮廓、干净平涂、轻赛璐璐阴影、明亮生活色彩、清楚前中后景。所有画面无字幕、数字、价格、货币符号、菜单文字、品牌、Logo、水印、二维码或可读包装文字。
 
@@ -13,7 +13,7 @@ Use case: illustration-story
 Asset type: 第014集图生视频关键帧
 永久身份参考: assets/brand/resistor-mascot-identity-master-original.jpg
 本镜头角度参考: assets/brand/resistor-mascot-multiview-v1/01-front-master-original.jpg
-【小耗儿多视图身份锁】永久原版母版是唯一最高身份源；本镜头同时引用与机位匹配的六视图文件，只用于保持空间结构，不得重新设计角色。严格保持同一个单一白色圆蛋机体、固定宽高比与粗黑外轮廓、同一五官几何和相对位置、淡粉脸颊、浅灰环绕电阻区、连续白色锯齿电阻纹、固定蓝色电路纹体系、头顶黄色闪电与蓝色电脉冲、两只短圆手、两条极短腿和白色圆脚。唯一小嘴只能是无牙黑线或纯黑小口型。按对应视图只显示该角度合理可见的部件：完全背面严禁补画眼睛、眉毛、脸颊或嘴，纯侧面只保留合理可见的一只眼。禁止鼠耳、鼠尾、毛发、长鼻、牙齿、舌头、长肢体、额外肢体、第二身体、纹路换位、左右结构随机镜像、瘦身、增高、换脸、换物种或换画风。角色一致性高于动作、构图、光影和场景效果；发生冲突时牺牲场景效果。
+【小耗儿多视图身份锁】永久原版母版是唯一最高身份源；本镜头同时引用与机位匹配的六视图文件，只用于保持空间结构，不得重新设计角色。严格保持同一个横向饱满的单一白色近圆机体、永久母版固定圆度与宽高比及粗黑外轮廓；圆度只测机体本体，不含头顶标志和手脚，正面、背面和 3/4 的宽度不得低于高度的 95%，纯侧面不得低于 92%，任何角度都禁止纵向拉长成鸡蛋形。保持同一五官几何和相对位置、淡粉脸颊、浅灰环绕电阻区、连续白色锯齿电阻纹、固定蓝色电路纹体系、头顶黄色闪电与蓝色电脉冲、两只短圆手、两条极短腿和白色圆脚。唯一小嘴只能是无牙黑线或纯黑小口型。按对应视图只显示该角度合理可见的部件：完全背面严禁补画眼睛、眉毛、脸颊或嘴，纯侧面只保留合理可见的一只眼。禁止鼠耳、鼠尾、毛发、长鼻、牙齿、舌头、长肢体、额外肢体、第二身体、纹路换位、左右结构随机镜像、瘦身、增高、换脸、换物种或换画风。角色一致性高于动作、构图、光影和场景效果；发生冲突时牺牲场景效果。
 Scene/backdrop: 白天普通城市街头，柔和晴天光，背景建筑与行人轻微虚化且静止
 Subject: 小耗儿空手站在画面中央，身体位置固定，生无可恋地稍微抬眼，唯一无牙小嘴闭合
 Composition/framing: 竖屏9:16，中近景，主体避开底部与右侧平台UI，上方和中下方留字幕区
@@ -29,7 +29,7 @@ Use case: illustration-story
 Asset type: 第014集图生视频关键帧
 永久身份参考: assets/brand/resistor-mascot-identity-master-original.jpg
 本镜头角度参考: assets/brand/resistor-mascot-multiview-v1/01-front-master-original.jpg
-【小耗儿多视图身份锁】永久原版母版是唯一最高身份源；本镜头同时引用与机位匹配的六视图文件，只用于保持空间结构，不得重新设计角色。严格保持同一个单一白色圆蛋机体、固定宽高比与粗黑外轮廓、同一五官几何和相对位置、淡粉脸颊、浅灰环绕电阻区、连续白色锯齿电阻纹、固定蓝色电路纹体系、头顶黄色闪电与蓝色电脉冲、两只短圆手、两条极短腿和白色圆脚。唯一小嘴只能是无牙黑线或纯黑小口型。按对应视图只显示该角度合理可见的部件：完全背面严禁补画眼睛、眉毛、脸颊或嘴，纯侧面只保留合理可见的一只眼。禁止鼠耳、鼠尾、毛发、长鼻、牙齿、舌头、长肢体、额外肢体、第二身体、纹路换位、左右结构随机镜像、瘦身、增高、换脸、换物种或换画风。角色一致性高于动作、构图、光影和场景效果；发生冲突时牺牲场景效果。
+【小耗儿多视图身份锁】永久原版母版是唯一最高身份源；本镜头同时引用与机位匹配的六视图文件，只用于保持空间结构，不得重新设计角色。严格保持同一个横向饱满的单一白色近圆机体、永久母版固定圆度与宽高比及粗黑外轮廓；圆度只测机体本体，不含头顶标志和手脚，正面、背面和 3/4 的宽度不得低于高度的 95%，纯侧面不得低于 92%，任何角度都禁止纵向拉长成鸡蛋形。保持同一五官几何和相对位置、淡粉脸颊、浅灰环绕电阻区、连续白色锯齿电阻纹、固定蓝色电路纹体系、头顶黄色闪电与蓝色电脉冲、两只短圆手、两条极短腿和白色圆脚。唯一小嘴只能是无牙黑线或纯黑小口型。按对应视图只显示该角度合理可见的部件：完全背面严禁补画眼睛、眉毛、脸颊或嘴，纯侧面只保留合理可见的一只眼。禁止鼠耳、鼠尾、毛发、长鼻、牙齿、舌头、长肢体、额外肢体、第二身体、纹路换位、左右结构随机镜像、瘦身、增高、换脸、换物种或换画风。角色一致性高于动作、构图、光影和场景效果；发生冲突时牺牲场景效果。
 Scene/backdrop: 暖黄童年客厅闪回，简洁沙发与柔和灯光，边缘略柔焦但主体清楚
 Subject: 画面前下方是一只比例稍小但拓扑完全不变的小耗儿，闭嘴、半垂眼；旁边是一次性母亲NPC，暖棕短发、桃色针织外套、深色长裤，闭嘴，保持一只手指向地面的既有训话姿势
 Composition/framing: 竖屏9:16，中景，恰好两名角色，空间关系清楚，上方留字幕区
@@ -45,7 +45,7 @@ Use case: illustration-story
 Asset type: 第014集图生视频关键帧
 永久身份参考: assets/brand/resistor-mascot-identity-master-original.jpg
 本镜头角度参考: assets/brand/resistor-mascot-multiview-v1/01-front-master-original.jpg
-【小耗儿多视图身份锁】永久原版母版是唯一最高身份源；本镜头同时引用与机位匹配的六视图文件，只用于保持空间结构，不得重新设计角色。严格保持同一个单一白色圆蛋机体、固定宽高比与粗黑外轮廓、同一五官几何和相对位置、淡粉脸颊、浅灰环绕电阻区、连续白色锯齿电阻纹、固定蓝色电路纹体系、头顶黄色闪电与蓝色电脉冲、两只短圆手、两条极短腿和白色圆脚。唯一小嘴只能是无牙黑线或纯黑小口型。按对应视图只显示该角度合理可见的部件：完全背面严禁补画眼睛、眉毛、脸颊或嘴，纯侧面只保留合理可见的一只眼。禁止鼠耳、鼠尾、毛发、长鼻、牙齿、舌头、长肢体、额外肢体、第二身体、纹路换位、左右结构随机镜像、瘦身、增高、换脸、换物种或换画风。角色一致性高于动作、构图、光影和场景效果；发生冲突时牺牲场景效果。
+【小耗儿多视图身份锁】永久原版母版是唯一最高身份源；本镜头同时引用与机位匹配的六视图文件，只用于保持空间结构，不得重新设计角色。严格保持同一个横向饱满的单一白色近圆机体、永久母版固定圆度与宽高比及粗黑外轮廓；圆度只测机体本体，不含头顶标志和手脚，正面、背面和 3/4 的宽度不得低于高度的 95%，纯侧面不得低于 92%，任何角度都禁止纵向拉长成鸡蛋形。保持同一五官几何和相对位置、淡粉脸颊、浅灰环绕电阻区、连续白色锯齿电阻纹、固定蓝色电路纹体系、头顶黄色闪电与蓝色电脉冲、两只短圆手、两条极短腿和白色圆脚。唯一小嘴只能是无牙黑线或纯黑小口型。按对应视图只显示该角度合理可见的部件：完全背面严禁补画眼睛、眉毛、脸颊或嘴，纯侧面只保留合理可见的一只眼。禁止鼠耳、鼠尾、毛发、长鼻、牙齿、舌头、长肢体、额外肢体、第二身体、纹路换位、左右结构随机镜像、瘦身、增高、换脸、换物种或换画风。角色一致性高于动作、构图、光影和场景效果；发生冲突时牺牲场景效果。
 Scene/backdrop: 暖色普通面馆窗口，木质柜台，背景菜单区域完全空白或虚化
 Subject: 小耗儿在柜台外闭嘴静止看着唯一白色面碗；白帽白围裙老板在柜台后，嘴硬皱眉，用唯一大汤勺把大量棕色熟牛肉倒进面碗，牛肉堆到冒尖但不飞散
 Composition/framing: 竖屏9:16，中景双人构图，碗与汤勺是视觉焦点
@@ -61,7 +61,7 @@ Use case: illustration-story
 Asset type: 第014集图生视频关键帧
 永久身份参考: assets/brand/resistor-mascot-identity-master-original.jpg
 本镜头角度参考: assets/brand/resistor-mascot-multiview-v1/01-front-master-original.jpg
-【小耗儿多视图身份锁】永久原版母版是唯一最高身份源；本镜头同时引用与机位匹配的六视图文件，只用于保持空间结构，不得重新设计角色。严格保持同一个单一白色圆蛋机体、固定宽高比与粗黑外轮廓、同一五官几何和相对位置、淡粉脸颊、浅灰环绕电阻区、连续白色锯齿电阻纹、固定蓝色电路纹体系、头顶黄色闪电与蓝色电脉冲、两只短圆手、两条极短腿和白色圆脚。唯一小嘴只能是无牙黑线或纯黑小口型。按对应视图只显示该角度合理可见的部件：完全背面严禁补画眼睛、眉毛、脸颊或嘴，纯侧面只保留合理可见的一只眼。禁止鼠耳、鼠尾、毛发、长鼻、牙齿、舌头、长肢体、额外肢体、第二身体、纹路换位、左右结构随机镜像、瘦身、增高、换脸、换物种或换画风。角色一致性高于动作、构图、光影和场景效果；发生冲突时牺牲场景效果。
+【小耗儿多视图身份锁】永久原版母版是唯一最高身份源；本镜头同时引用与机位匹配的六视图文件，只用于保持空间结构，不得重新设计角色。严格保持同一个横向饱满的单一白色近圆机体、永久母版固定圆度与宽高比及粗黑外轮廓；圆度只测机体本体，不含头顶标志和手脚，正面、背面和 3/4 的宽度不得低于高度的 95%，纯侧面不得低于 92%，任何角度都禁止纵向拉长成鸡蛋形。保持同一五官几何和相对位置、淡粉脸颊、浅灰环绕电阻区、连续白色锯齿电阻纹、固定蓝色电路纹体系、头顶黄色闪电与蓝色电脉冲、两只短圆手、两条极短腿和白色圆脚。唯一小嘴只能是无牙黑线或纯黑小口型。按对应视图只显示该角度合理可见的部件：完全背面严禁补画眼睛、眉毛、脸颊或嘴，纯侧面只保留合理可见的一只眼。禁止鼠耳、鼠尾、毛发、长鼻、牙齿、舌头、长肢体、额外肢体、第二身体、纹路换位、左右结构随机镜像、瘦身、增高、换脸、换物种或换画风。角色一致性高于动作、构图、光影和场景效果；发生冲突时牺牲场景效果。
 Scene/backdrop: 明亮普通便利店柜台，货架包装全部无字且轻微虚化
 Subject: 绿色无标志围裙老板皱眉闭嘴，一只手扶着唯一一只厚透明袋的袋口；袋子稳放在柜台上并已经靠近小耗儿，袋里装满无货币符号的银灰圆片。小耗儿闭嘴站在柜台外，两只母版长度的短圆手自然贴在机体两侧，完全不伸手接袋
 Composition/framing: 竖屏9:16，中景双人构图，零钱袋完整可见
@@ -77,7 +77,7 @@ Use case: illustration-story
 Asset type: 第014集图生视频关键帧
 永久身份参考: assets/brand/resistor-mascot-identity-master-original.jpg
 本镜头角度参考: assets/brand/resistor-mascot-multiview-v1/01-front-master-original.jpg
-【小耗儿多视图身份锁】永久原版母版是唯一最高身份源；本镜头同时引用与机位匹配的六视图文件，只用于保持空间结构，不得重新设计角色。严格保持同一个单一白色圆蛋机体、固定宽高比与粗黑外轮廓、同一五官几何和相对位置、淡粉脸颊、浅灰环绕电阻区、连续白色锯齿电阻纹、固定蓝色电路纹体系、头顶黄色闪电与蓝色电脉冲、两只短圆手、两条极短腿和白色圆脚。唯一小嘴只能是无牙黑线或纯黑小口型。按对应视图只显示该角度合理可见的部件：完全背面严禁补画眼睛、眉毛、脸颊或嘴，纯侧面只保留合理可见的一只眼。禁止鼠耳、鼠尾、毛发、长鼻、牙齿、舌头、长肢体、额外肢体、第二身体、纹路换位、左右结构随机镜像、瘦身、增高、换脸、换物种或换画风。角色一致性高于动作、构图、光影和场景效果；发生冲突时牺牲场景效果。
+【小耗儿多视图身份锁】永久原版母版是唯一最高身份源；本镜头同时引用与机位匹配的六视图文件，只用于保持空间结构，不得重新设计角色。严格保持同一个横向饱满的单一白色近圆机体、永久母版固定圆度与宽高比及粗黑外轮廓；圆度只测机体本体，不含头顶标志和手脚，正面、背面和 3/4 的宽度不得低于高度的 95%，纯侧面不得低于 92%，任何角度都禁止纵向拉长成鸡蛋形。保持同一五官几何和相对位置、淡粉脸颊、浅灰环绕电阻区、连续白色锯齿电阻纹、固定蓝色电路纹体系、头顶黄色闪电与蓝色电脉冲、两只短圆手、两条极短腿和白色圆脚。唯一小嘴只能是无牙黑线或纯黑小口型。按对应视图只显示该角度合理可见的部件：完全背面严禁补画眼睛、眉毛、脸颊或嘴，纯侧面只保留合理可见的一只眼。禁止鼠耳、鼠尾、毛发、长鼻、牙齿、舌头、长肢体、额外肢体、第二身体、纹路换位、左右结构随机镜像、瘦身、增高、换脸、换物种或换画风。角色一致性高于动作、构图、光影和场景效果；发生冲突时牺牲场景效果。
 Scene/backdrop: 明亮奶茶店窗口，奶油色与浅黄色背景，无品牌菜单
 Subject: 黄色帽、浅褐无标志围裙店员皱眉，使用唯一大勺把金黄布丁倒进唯一无字透明杯，杯中布丁接近杯口；小耗儿在窗口外闭嘴看着
 Composition/framing: 竖屏9:16，中景双人，杯子与布丁位于中央视觉焦点
@@ -93,7 +93,7 @@ Use case: illustration-story
 Asset type: 第014集图生视频关键帧
 永久身份参考: assets/brand/resistor-mascot-identity-master-original.jpg
 本镜头角度参考: assets/brand/resistor-mascot-multiview-v1/01-front-master-original.jpg
-【小耗儿多视图身份锁】永久原版母版是唯一最高身份源；本镜头同时引用与机位匹配的六视图文件，只用于保持空间结构，不得重新设计角色。严格保持同一个单一白色圆蛋机体、固定宽高比与粗黑外轮廓、同一五官几何和相对位置、淡粉脸颊、浅灰环绕电阻区、连续白色锯齿电阻纹、固定蓝色电路纹体系、头顶黄色闪电与蓝色电脉冲、两只短圆手、两条极短腿和白色圆脚。唯一小嘴只能是无牙黑线或纯黑小口型。按对应视图只显示该角度合理可见的部件：完全背面严禁补画眼睛、眉毛、脸颊或嘴，纯侧面只保留合理可见的一只眼。禁止鼠耳、鼠尾、毛发、长鼻、牙齿、舌头、长肢体、额外肢体、第二身体、纹路换位、左右结构随机镜像、瘦身、增高、换脸、换物种或换画风。角色一致性高于动作、构图、光影和场景效果；发生冲突时牺牲场景效果。
+【小耗儿多视图身份锁】永久原版母版是唯一最高身份源；本镜头同时引用与机位匹配的六视图文件，只用于保持空间结构，不得重新设计角色。严格保持同一个横向饱满的单一白色近圆机体、永久母版固定圆度与宽高比及粗黑外轮廓；圆度只测机体本体，不含头顶标志和手脚，正面、背面和 3/4 的宽度不得低于高度的 95%，纯侧面不得低于 92%，任何角度都禁止纵向拉长成鸡蛋形。保持同一五官几何和相对位置、淡粉脸颊、浅灰环绕电阻区、连续白色锯齿电阻纹、固定蓝色电路纹体系、头顶黄色闪电与蓝色电脉冲、两只短圆手、两条极短腿和白色圆脚。唯一小嘴只能是无牙黑线或纯黑小口型。按对应视图只显示该角度合理可见的部件：完全背面严禁补画眼睛、眉毛、脸颊或嘴，纯侧面只保留合理可见的一只眼。禁止鼠耳、鼠尾、毛发、长鼻、牙齿、舌头、长肢体、额外肢体、第二身体、纹路换位、左右结构随机镜像、瘦身、增高、换脸、换物种或换画风。角色一致性高于动作、构图、光影和场景效果；发生冲突时牺牲场景效果。
 Scene/backdrop: 普通住宅入户门与简洁走廊，暖白照明
 Subject: 无品牌蓝外套与蓝头盔外卖员在门外，把第三个无字纸箱放到已经整齐堆好的两个无字纸箱旁；旁边只有一个无字外卖纸袋。小耗儿站在门内闭嘴看着
 Composition/framing: 竖屏9:16，中景，门框、两名角色与全部包裹清楚可见
@@ -109,7 +109,7 @@ Use case: illustration-story
 Asset type: 第014集图生视频关键帧
 永久身份参考: assets/brand/resistor-mascot-identity-master-original.jpg
 本镜头角度参考: assets/brand/resistor-mascot-multiview-v1/01-front-master-original.jpg
-【小耗儿多视图身份锁】永久原版母版是唯一最高身份源；本镜头同时引用与机位匹配的六视图文件，只用于保持空间结构，不得重新设计角色。严格保持同一个单一白色圆蛋机体、固定宽高比与粗黑外轮廓、同一五官几何和相对位置、淡粉脸颊、浅灰环绕电阻区、连续白色锯齿电阻纹、固定蓝色电路纹体系、头顶黄色闪电与蓝色电脉冲、两只短圆手、两条极短腿和白色圆脚。唯一小嘴只能是无牙黑线或纯黑小口型。按对应视图只显示该角度合理可见的部件：完全背面严禁补画眼睛、眉毛、脸颊或嘴，纯侧面只保留合理可见的一只眼。禁止鼠耳、鼠尾、毛发、长鼻、牙齿、舌头、长肢体、额外肢体、第二身体、纹路换位、左右结构随机镜像、瘦身、增高、换脸、换物种或换画风。角色一致性高于动作、构图、光影和场景效果；发生冲突时牺牲场景效果。
+【小耗儿多视图身份锁】永久原版母版是唯一最高身份源；本镜头同时引用与机位匹配的六视图文件，只用于保持空间结构，不得重新设计角色。严格保持同一个横向饱满的单一白色近圆机体、永久母版固定圆度与宽高比及粗黑外轮廓；圆度只测机体本体，不含头顶标志和手脚，正面、背面和 3/4 的宽度不得低于高度的 95%，纯侧面不得低于 92%，任何角度都禁止纵向拉长成鸡蛋形。保持同一五官几何和相对位置、淡粉脸颊、浅灰环绕电阻区、连续白色锯齿电阻纹、固定蓝色电路纹体系、头顶黄色闪电与蓝色电脉冲、两只短圆手、两条极短腿和白色圆脚。唯一小嘴只能是无牙黑线或纯黑小口型。按对应视图只显示该角度合理可见的部件：完全背面严禁补画眼睛、眉毛、脸颊或嘴，纯侧面只保留合理可见的一只眼。禁止鼠耳、鼠尾、毛发、长鼻、牙齿、舌头、长肢体、额外肢体、第二身体、纹路换位、左右结构随机镜像、瘦身、增高、换脸、换物种或换画风。角色一致性高于动作、构图、光影和场景效果；发生冲突时牺牲场景效果。
 Scene/backdrop: 普通办公室傍晚，整洁桌面与无字电脑屏幕，室内灯仍然亮着
 Subject: 小耗儿坐在工位前闭嘴，双手靠近键盘但不敲；深蓝衬衫老板站在墙边，嘴硬皱眉，一只手已经放在唯一墙面电源开关上
 Composition/framing: 竖屏9:16，中景双人，小耗儿、开关与老板同框，其他工位无人或完全虚化
@@ -125,7 +125,7 @@ Use case: illustration-story
 Asset type: 第014集图生视频关键帧
 永久身份参考: assets/brand/resistor-mascot-identity-master-original.jpg
 本镜头角度参考: assets/brand/resistor-mascot-multiview-v1/01-front-master-original.jpg
-【小耗儿多视图身份锁】永久原版母版是唯一最高身份源；本镜头同时引用与机位匹配的六视图文件，只用于保持空间结构，不得重新设计角色。严格保持同一个单一白色圆蛋机体、固定宽高比与粗黑外轮廓、同一五官几何和相对位置、淡粉脸颊、浅灰环绕电阻区、连续白色锯齿电阻纹、固定蓝色电路纹体系、头顶黄色闪电与蓝色电脉冲、两只短圆手、两条极短腿和白色圆脚。唯一小嘴只能是无牙黑线或纯黑小口型。按对应视图只显示该角度合理可见的部件：完全背面严禁补画眼睛、眉毛、脸颊或嘴，纯侧面只保留合理可见的一只眼。禁止鼠耳、鼠尾、毛发、长鼻、牙齿、舌头、长肢体、额外肢体、第二身体、纹路换位、左右结构随机镜像、瘦身、增高、换脸、换物种或换画风。角色一致性高于动作、构图、光影和场景效果；发生冲突时牺牲场景效果。
+【小耗儿多视图身份锁】永久原版母版是唯一最高身份源；本镜头同时引用与机位匹配的六视图文件，只用于保持空间结构，不得重新设计角色。严格保持同一个横向饱满的单一白色近圆机体、永久母版固定圆度与宽高比及粗黑外轮廓；圆度只测机体本体，不含头顶标志和手脚，正面、背面和 3/4 的宽度不得低于高度的 95%，纯侧面不得低于 92%，任何角度都禁止纵向拉长成鸡蛋形。保持同一五官几何和相对位置、淡粉脸颊、浅灰环绕电阻区、连续白色锯齿电阻纹、固定蓝色电路纹体系、头顶黄色闪电与蓝色电脉冲、两只短圆手、两条极短腿和白色圆脚。唯一小嘴只能是无牙黑线或纯黑小口型。按对应视图只显示该角度合理可见的部件：完全背面严禁补画眼睛、眉毛、脸颊或嘴，纯侧面只保留合理可见的一只眼。禁止鼠耳、鼠尾、毛发、长鼻、牙齿、舌头、长肢体、额外肢体、第二身体、纹路换位、左右结构随机镜像、瘦身、增高、换脸、换物种或换画风。角色一致性高于动作、构图、光影和场景效果；发生冲突时牺牲场景效果。
 Scene/backdrop: 现代但无品牌的理发店柜台，镜面与暖白灯，背景简洁
 Subject: 黑色无标志工作围裙理发师皱眉，用一只手把唯一无字黑金卡沿桌面滑向小耗儿；一把剪刀静止放在桌面远侧。小耗儿闭嘴看卡，双手靠近身体
 Composition/framing: 竖屏9:16，中景双人，卡片与两人视线关系清楚
@@ -141,7 +141,7 @@ Use case: illustration-story
 Asset type: 第014集图生视频关键帧
 永久身份参考: assets/brand/resistor-mascot-identity-master-original.jpg
 本镜头角度参考: assets/brand/resistor-mascot-multiview-v1/01-front-master-original.jpg
-【小耗儿多视图身份锁】永久原版母版是唯一最高身份源；本镜头同时引用与机位匹配的六视图文件，只用于保持空间结构，不得重新设计角色。严格保持同一个单一白色圆蛋机体、固定宽高比与粗黑外轮廓、同一五官几何和相对位置、淡粉脸颊、浅灰环绕电阻区、连续白色锯齿电阻纹、固定蓝色电路纹体系、头顶黄色闪电与蓝色电脉冲、两只短圆手、两条极短腿和白色圆脚。唯一小嘴只能是无牙黑线或纯黑小口型。按对应视图只显示该角度合理可见的部件：完全背面严禁补画眼睛、眉毛、脸颊或嘴，纯侧面只保留合理可见的一只眼。禁止鼠耳、鼠尾、毛发、长鼻、牙齿、舌头、长肢体、额外肢体、第二身体、纹路换位、左右结构随机镜像、瘦身、增高、换脸、换物种或换画风。角色一致性高于动作、构图、光影和场景效果；发生冲突时牺牲场景效果。
+【小耗儿多视图身份锁】永久原版母版是唯一最高身份源；本镜头同时引用与机位匹配的六视图文件，只用于保持空间结构，不得重新设计角色。严格保持同一个横向饱满的单一白色近圆机体、永久母版固定圆度与宽高比及粗黑外轮廓；圆度只测机体本体，不含头顶标志和手脚，正面、背面和 3/4 的宽度不得低于高度的 95%，纯侧面不得低于 92%，任何角度都禁止纵向拉长成鸡蛋形。保持同一五官几何和相对位置、淡粉脸颊、浅灰环绕电阻区、连续白色锯齿电阻纹、固定蓝色电路纹体系、头顶黄色闪电与蓝色电脉冲、两只短圆手、两条极短腿和白色圆脚。唯一小嘴只能是无牙黑线或纯黑小口型。按对应视图只显示该角度合理可见的部件：完全背面严禁补画眼睛、眉毛、脸颊或嘴，纯侧面只保留合理可见的一只眼。禁止鼠耳、鼠尾、毛发、长鼻、牙齿、舌头、长肢体、额外肢体、第二身体、纹路换位、左右结构随机镜像、瘦身、增高、换脸、换物种或换画风。角色一致性高于动作、构图、光影和场景效果；发生冲突时牺牲场景效果。
 Scene/backdrop: 简洁街边暖色背景，背景行人不存在或完全虚化
 Subject: 只有小耗儿正面完整站立，两只与母版完全相同的短圆手自然贴在机体两侧。脚边恰好三个无字纸箱围成浅弧：唯一满牛肉白碗稳放在左侧纸箱上，唯一厚透明零钱袋稳放在中间纸箱上，唯一满布丁无字透明杯稳放在右侧纸箱上，唯一无字黑金卡斜靠在中间纸箱前方。全部道具与角色分离、数量清楚，脸与灰色电阻区不被遮挡。小耗儿皱眉假装头疼，但半垂眼略向上弯，明显暗爽，唯一小嘴闭合
 Composition/framing: 竖屏9:16，中景偏全身，道具分层清楚，脸不被遮挡，上方留字幕区
@@ -157,7 +157,7 @@ Use case: illustration-story
 Asset type: 第014集图生视频关键帧
 永久身份参考: assets/brand/resistor-mascot-identity-master-original.jpg
 本镜头角度参考: assets/brand/resistor-mascot-multiview-v1/01-front-master-original.jpg
-【小耗儿多视图身份锁】永久原版母版是唯一最高身份源；本镜头同时引用与机位匹配的六视图文件，只用于保持空间结构，不得重新设计角色。严格保持同一个单一白色圆蛋机体、固定宽高比与粗黑外轮廓、同一五官几何和相对位置、淡粉脸颊、浅灰环绕电阻区、连续白色锯齿电阻纹、固定蓝色电路纹体系、头顶黄色闪电与蓝色电脉冲、两只短圆手、两条极短腿和白色圆脚。唯一小嘴只能是无牙黑线或纯黑小口型。按对应视图只显示该角度合理可见的部件：完全背面严禁补画眼睛、眉毛、脸颊或嘴，纯侧面只保留合理可见的一只眼。禁止鼠耳、鼠尾、毛发、长鼻、牙齿、舌头、长肢体、额外肢体、第二身体、纹路换位、左右结构随机镜像、瘦身、增高、换脸、换物种或换画风。角色一致性高于动作、构图、光影和场景效果；发生冲突时牺牲场景效果。
+【小耗儿多视图身份锁】永久原版母版是唯一最高身份源；本镜头同时引用与机位匹配的六视图文件，只用于保持空间结构，不得重新设计角色。严格保持同一个横向饱满的单一白色近圆机体、永久母版固定圆度与宽高比及粗黑外轮廓；圆度只测机体本体，不含头顶标志和手脚，正面、背面和 3/4 的宽度不得低于高度的 95%，纯侧面不得低于 92%，任何角度都禁止纵向拉长成鸡蛋形。保持同一五官几何和相对位置、淡粉脸颊、浅灰环绕电阻区、连续白色锯齿电阻纹、固定蓝色电路纹体系、头顶黄色闪电与蓝色电脉冲、两只短圆手、两条极短腿和白色圆脚。唯一小嘴只能是无牙黑线或纯黑小口型。按对应视图只显示该角度合理可见的部件：完全背面严禁补画眼睛、眉毛、脸颊或嘴，纯侧面只保留合理可见的一只眼。禁止鼠耳、鼠尾、毛发、长鼻、牙齿、舌头、长肢体、额外肢体、第二身体、纹路换位、左右结构随机镜像、瘦身、增高、换脸、换物种或换画风。角色一致性高于动作、构图、光影和场景效果；发生冲突时牺牲场景效果。
 Scene/backdrop: 纯亮黄色干净背景，无纹理文字
 Subject: 只有小耗儿，正面中景，一只与母版等长、始终贴近机体的短圆手在肩侧保持简洁V手势，另一只母版长度短圆手贴着机体叉腰，半垂眼调皮地看镜头，唯一无牙小嘴闭合
 Composition/framing: 竖屏9:16，主体居中偏下，上方和底部都留足字幕与CTA空间

diff --git a/assets/brand/MULTIVIEW_IDENTITY_LOCK.md b/assets/brand/MULTIVIEW_IDENTITY_LOCK.md
@@ -14,18 +14,25 @@
[8 lines of base64/hex data omitted]
 
 正面副本与永久原版 SHA-256 完全一致，证明未重绘、未压缩、未改色。02—06 是机位派生设计，不得单独用于定义新身份；蓝色电路纹按视角延续，永久原版仍决定全部核心结构。
 
 每张新关键帧必须同时引用永久原版和与机位匹配的视图。镜头在两个标准方向之间时，同时引用最近的两张；同场景后续状态帧还要引用已验收上一帧。没有对应角度时改机位、拆镜或硬切，不让模型凭文字临时猜造型。
 
+## 圆度硬门槛
+
+- 永久母版的主体是横向饱满的近圆机体，不是纵向拉长的鸡蛋。圆度只测机体黑色外轮廓，不含头顶黄蓝标志、手脚。
+- 正面、背面和左右 3/4 的机体宽度不得低于高度的 95%；纯侧面允许极轻透视压窄，但宽度不得低于高度的 92%。
+- 先验收外轮廓，再看五官与纹路。即使颜色、五官、腰带和电路纹相似，只要轮廓高瘦或上窄下尖，仍判为身份失败。
+- 2026-08-06：用户判退旧版右侧面与右 3/4 的纵长鸡蛋轮廓；旧图保存在 `archive-rejected-roundness/`，不得作为正式机位参考。
+
 ## 动画硬门槛
 
 - 图生视频只让既有角色做轻微动作，不重新设计角色。
-- 从首帧到尾帧固定单一蛋形机体、宽高比、五官、脸颊、灰色电阻区高度、连续白色锯齿纹、蓝色电路纹、头顶黄色闪电与蓝色电脉冲、两只短手、两条极短腿、白色圆脚和唯一无牙小嘴。
+- 从首帧到尾帧固定横向饱满的单一近圆机体、母版圆度与宽高比、五官、脸颊、灰色电阻区高度、连续白色锯齿纹、蓝色电路纹、头顶黄色闪电与蓝色电脉冲、两只短手、两条极短腿、白色圆脚和唯一无牙小嘴；任何角度都不得纵向拉长成鸡蛋形。
 - 按当前角度保持正确可见性：完全背面不生成眼睛、眉毛、脸颊或嘴；纯侧面不同时露出两套正面五官。
 - 遮挡不能导致部件消失，动作不能通过拉伸、融化、残影、临时新肢体或换画风完成。
 - 动画需要大角度转身时拆成独立镜头，并分别使用对应视图；不要在一条生成片里完成大幅旋转。

diff --git a/assets/brand/ORIGINAL_MASTER_LOCK.md b/assets/brand/ORIGINAL_MASTER_LOCK.md
@@ -24,13 +24,13 @@
 
 ## 永久不可改变的角色结构
 
-1. 角色只有一个白色、圆滚滚、头身一体的连续蛋形身体。
+1. 角色只有一个白色、圆滚滚、横向饱满、头身一体的连续近圆身体；机体本体不含头顶标志和手脚时不得纵向拉长成鸡蛋形。
 2. 脸直接位于同一颗蛋的上半部，不存在独立人头、脖子或第二个躯干。
 3. 五官在上半部占据较大面积：两条黑色斜眉、两只大号半眯眼、一个小鼻子和唯一一张小嘴；不能缩成很小的一团。小嘴永远是简化黑色线条或纯黑小口型，内部没有牙齿、舌头、牙龈或写实嘴唇。
 4. 保留淡粉色脸颊和黑色粗轮廓线。
 5. 头顶左侧是黄色扁平闪电，右侧是蓝色扁平电脉冲折线；二者的形状、大小关系和相对位置以母版为准。
 6. 右上额保留蓝色电路纹。
-7. 蛋形身体中下部保留浅灰色电阻区域、白色锯齿电阻纹、蓝色电路线和灰色分隔带。
+7. 近圆身体中下部保留浅灰色电阻区域、白色锯齿电阻纹、蓝色电路线和灰色分隔带。
 8. 角色恰好只有两条短胳膊、两只手、两条极短腿和两只圆脚；脚几乎直接接在蛋体底部。
 9. 左右脚必须位于同一支撑平面，不能出现大腿、膝盖、小腿或人类式长腿。
 10. 原图周围的问号、灰云、纸团和右下角平台标记属于展示背景，不属于角色身体；生成新作品时不得复制平台水印。
@@ -55,5 +55,5 @@
 ## 所有新提示词必须带上的身份声明
 
 ```text
-使用“小内耗”永久原版底稿作为唯一角色身份和结构标准。逐帧复制底稿中的单一连续蛋形身体、上半部大面积五官、半眯眼、黑色粗线条、淡粉脸颊、头顶黄色闪电与蓝色电脉冲、右上额蓝色电路纹、下半部浅灰电阻区域、白色锯齿纹、两条短胳膊和两条极短腿。唯一小嘴只允许使用简化黑色线条或纯黑小口型，绝不出现牙齿、舌头、牙龈、写实嘴唇或其他口腔结构；下半部白色锯齿纹永远不是牙齿或嘴。只允许改变服装、道具、动作、场景、镜头、材质和光线；禁止重新设计、优化或重塑角色。角色一致性高于画面风格，冲突时必须牺牲场景效果并完整保留底稿形象。
+使用“小内耗”永久原版底稿作为唯一角色身份和结构标准。逐帧复制底稿中单一连续、横向饱满的近圆身体；机体本体不含头顶标志和手脚时不得纵向拉长成鸡蛋形。保持上半部大面积五官、半眯眼、黑色粗线条、淡粉脸颊、头顶黄色闪电与蓝色电脉冲、右上额蓝色电路纹、下半部浅灰电阻区域、白色锯齿纹、两条短胳膊和两条极短腿。唯一小嘴只允许使用简化黑色线条或纯黑小口型，绝不出现牙齿、舌头、牙龈、写实嘴唇或其他口腔结构；下半部白色锯齿纹永远不是牙齿或嘴。只允许改变服装、道具、动作、场景、镜头、材质和光线；禁止重新设计、优化或重塑角色。角色一致性高于画面风格，冲突时必须牺牲场景效果并完整保留底稿形象。
 ```

diff --git a/assets/brand/README.md b/assets/brand/README.md
@@ -22,7 +22,7 @@ PNG 工作副本：[resistor-mascot-identity-master.png](resistor-mascot-identit
 
 ## 角色拓扑锁定（所有图片与视频提示词必须重复）
 
-- 角色只有一个连续、完整、不可拆分的白色蛋形机体，不是“头加身体”，也不是上下两颗蛋叠在一起。
+- 角色只有一个连续、完整、不可拆分、横向饱满的白色近圆机体，不是“头加身体”，也不是上下两个躯干叠在一起。机体本体不含头顶标志和手脚时必须保持永久母版圆度，不得纵向拉长成鸡蛋形。
 - 脸、眉毛、眼睛、鼻子和唯一小嘴位于同一颗蛋的上半部分；同一颗蛋的下半部分就是身体和电阻区域。
 - 唯一小嘴必须保持简化黑色线条或纯黑小口型；闭嘴时是短黑线或小弧线，张嘴说话时只能是无内部结构的纯黑小椭圆或黑色缝隙。禁止牙齿、单颗牙、舌头、牙龈、写实嘴唇和口水；下半部白色锯齿电阻纹永远不是牙齿或嘴。
 - 浅灰色电阻腰带只是环绕同一颗蛋中下部的一条固定结构带。禁止第二条腰带、腰带下方的第二颗蛋、独立腹部、胯部圆球、圆筒骨盆和第二躯干。
@@ -34,7 +34,7 @@ PNG 工作副本：[resistor-mascot-identity-master.png](resistor-mascot-identit
 ### 图生视频的外形与比例锁定
 
 - `resistor-mascot-identity-master-original.jpg` 是永久身份与结构标准；上传的正式首帧、尾帧只能帮助保持当前场景连续性，不能覆盖原版底稿。图生视频不是重新设计角色，而是让这个既有角色做轻微动作。
-- 每一帧都必须复制参考图中的蛋体宽高比、外轮廓、腰带高度、五官位置、手脚造型、四肢长度、颜色、材质和电路纹位置。禁止重塑、拉伸、瘦身、增高、改成人形比例或切换画风。
+- 每一帧都必须复制参考图中横向饱满的近圆机体宽高比、外轮廓、腰带高度、五官位置、手脚造型、四肢长度、颜色、材质和电路纹位置。禁止重塑、拉伸、瘦身、增高、纵向鸡蛋化、改成人形比例或切换画风。
 - 原 IP 只有极短的圆柱短臂和极短的圆柱短腿。脚几乎直接连接在蛋体底部；禁止生成大腿、膝盖、小腿、长胳膊、长腿、跨步和人类式跑步姿势。
 - 四肢的可见长度不得超过所上传参考帧中的长度；动作只能通过小幅摆动、轻微弯曲或角色整体平移完成，不能通过伸长肢体完成。
 - 同一只手需要换动作时，必须先完全结束前一个动作，再移动到新位置；前后两个手势不能同时存在。若仍容易增生肢体，应拆段或重做关键帧，使每只手在一段内只承担一个固定任务。

diff --git a/README.md b/README.md
@@ -22,7 +22,7 @@
 - 最新制作：[第 011 集｜AI 没抢他的工作](episodes/011-ai-script-read-aloud/README.md)，采用“真人现场约 2 秒 → 小耗儿接棒模仿 → 近景吐槽”的三段结构；后半段两张小耗儿关键帧与图生视频提示词已完成，真人新闻片段由用户自行处理
 - 最新制作：[第 012 集｜别让脑补替你加班](episodes/012-dance-off-the-stress/README.md)，v2 五张连续关键帧、17秒口播和4段可独立整框复制的有声视频提示词已完成，待生成动态；原花海跳舞版保留为v1历史候选
 - 最新制作：[第 013 集｜外耗不是伤人，是把问题还回去](episodes/013-return-the-problem/README.md)，已升级为“小耗儿单主角 v2”：17 张竖屏关键帧、22 秒时间轴、单一固定声音配置与 17 条独立有声视频提示词已完成，待登记小耗儿实际声音锚点并生成动态
-- 最新制作：[第 014 集｜没人惯着你，怎么全是福利](episodes/014-nobody-spoils-you-buff/README.md)，21 秒生产稿、10 张 941×1672 关键帧、10 条逐帧身份锁有声视频提示词、剪辑/声音/发布包及永久六视图母版已完成；待登记小耗儿与 NPC 的实际声音锚点并生成动态
+- 最新制作：[第 014 集｜没人惯着你，怎么全是福利](episodes/014-nobody-spoils-you-buff/README.md)，21 秒生产稿、10 张 941×1672 关键帧、10 条逐帧身份锁有声视频提示词、剪辑/声音/发布包及永久六视图母版已完成；右侧面与右 3/4 已按母版圆度返工，提示词同步禁止纵向鸡蛋化；待登记小耗儿与 NPC 的实际声音锚点并生成动态
 
 ## 换电脑后怎样继续
 

diff --git a/AGENTS.md b/AGENTS.md
@@ -34,6 +34,7 @@
 
 - 固定 IP 的永久原版底稿是 `assets/brand/resistor-mascot-identity-master-original.jpg`；`resistor-mascot-identity-master.png` 与 `resistor-mascot-reference.png` 是同一底稿的 PNG 工作副本。任何新形象都必须以此底稿为唯一身份和结构标准。
 - `assets/brand/resistor-mascot-multiview-v1/` 是从永久原版派生的六视图机位参考，只负责正、背、左、右、左 3/4、右 3/4 的空间结构，不得覆盖原版身份。新关键帧必须同时引用永久原版和与机位匹配的视图；相邻两种角度之间同时引用最近的两张视图。
+- 所有标准视图都必须保留永久母版横向饱满的近圆机体，不能因侧面或 3/4 透视变成纵长鸡蛋形。圆度只测机体黑色外轮廓，不含头顶黄蓝标志、手脚：正面、背面和 3/4 的宽度不得低于高度的 95%，纯侧面不得低于 92%；特征相似但轮廓高瘦仍判失败。
 - 必须保留白色圆形电阻身体、灰色电阻腰带、锯齿电阻纹、蓝色电路纹、黄色闪电和黑色粗线条。
 - 当前短视频默认竖版 9:16；单集明确指定其他画幅时以单集为准。图片默认无文字，文字在剪辑或发布阶段添加。
 - 每条小耗儿视频提示词必须独立写入逐帧身份锁：从首帧到尾帧固定身体比例、五官、腰带高度、锯齿纹、电路纹、头顶标志、短手短脚和无牙小嘴。动画过程出现变脸、变形、纹路跳位、肢体增生或物种漂移时，整段判为失败并重生成。

diff --git a/episodes/014-nobody-spoils-you-buff/README.md b/episodes/014-nobody-spoils-you-buff/README.md
@@ -30,9 +30,10 @@
 ## 身份加固
 
 - 永久原版 `assets/brand/resistor-mascot-identity-master-original.jpg` 是唯一最高身份源。
-- 新建的 `assets/brand/resistor-mascot-multiview-v1/` 保存正、背、左、右、左 3/4、右 3/4 六视图；正面文件与永久原版字节完全一致，其他五张只作角度参考。
+- 新建的 `assets/brand/resistor-mascot-multiview-v1/` 保存正、背、左、右、左 3/4、右 3/4 六视图；正面文件与永久原版字节完全一致，其他五张只作角度参考。用户判退纵长鸡蛋轮廓后，右侧面与右 3/4 已重做为横向饱满的近圆正式版，旧图只在 `archive-rejected-roundness/` 追溯。
 - 本集 10 个镜头均为正面或接近正面，图片提示词逐条同时引用永久原版与正面角度图。
 - 10 条视频提示词逐条包含完整逐帧身份锁，明确禁止动画中变脸、瘦身、长手长腿、纹路跳位、头顶标志变形、肢体增生和换画风。
+- 本集 10 条图片提示词与 10 条视频提示词已同步加入圆度硬门槛：正面、背面和 3/4 的机体宽度不得低于高度的 95%，纯侧面不得低于 92%，任何帧都禁止纵向鸡蛋化。
 - 初版 04、09、10 因短臂被拉长而判退；当前正式版已返工通过，失败图只保留在关键帧归档目录作追溯。
 
 ## 当前交付入口

diff --git a/docs/VIDEO_WORKFLOW.md b/docs/VIDEO_WORKFLOW.md
@@ -76,7 +76,7 @@
 
 六视图位于 `assets/brand/resistor-mascot-multiview-v1/`，依次为正、背、朝画面左的纯侧面、朝画面右的纯侧面、向画面左转约 45°、向画面右转约 45°。镜头落在两个标准角度之间时同时引用最近的两张；没有对应参考时优先改机位或拆镜头，不让模型凭文字猜侧背结构。
 
-图生视频提示词必须逐条重复逐帧身份锁，锁定同一蛋形机体、五官位置、灰色电阻区高度、连续锯齿纹、蓝色电路纹、头顶黄蓝标志、短手短脚与唯一无牙嘴。视频至少抽查首帧、25%、50%、75% 和尾帧；任何一帧变脸、变形、纹路重排、肢体增生或物种化，整段重生成。
+图生视频提示词必须逐条重复逐帧身份锁，锁定同一横向饱满的近圆机体、母版宽高比、五官位置、灰色电阻区高度、连续锯齿纹、蓝色电路纹、头顶黄蓝标志、短手短脚与唯一无牙嘴；任何角度都不得纵向拉长成鸡蛋形。视频至少抽查首帧、25%、50%、75% 和尾帧；任何一帧变脸、变形、轮廓变高变窄、纹路重排、肢体增生或物种化，整段重生成。
 
 封面单独制作，不要直接拿信息最满的分镜图充当封面。封面只需要一个清楚动作和一块标题留白。
 

diff --git a/episodes/014-nobody-spoils-you-buff/03-visuals/continuity-v1.md b/episodes/014-nobody-spoils-you-buff/03-visuals/continuity-v1.md
@@ -10,7 +10,7 @@
 
 - 最高身份参考：`assets/brand/resistor-mascot-identity-master-original.jpg`。
 - 机位派生参考：`assets/brand/resistor-mascot-multiview-v1/`；本集 10 个镜头的小耗儿都保持正面或接近正面，统一同时引用 `01-front-master-original.jpg`。六视图只解决角度，不能覆盖永久原版。
-- 必须保留：单一白色蛋形身体、浅灰电阻区域、白色锯齿纹、蓝色电路纹、黄色闪电、蓝色电脉冲、两只短手、两条极短腿、半垂眼和唯一无牙黑色短嘴。
+- 必须保留：横向饱满的单一白色近圆身体与永久母版圆度，任何角度不得纵向拉长成鸡蛋形；同时保留浅灰电阻区域、白色锯齿纹、蓝色电路纹、黄色闪电、蓝色电脉冲、两只短手、两条极短腿、半垂眼和唯一无牙黑色短嘴。
 - 禁止：老鼠耳朵、尾巴、毛发、长鼻、长腿、衣服覆盖电阻纹、牙齿、舌头、额外四肢、身体分段或角色拟人化成人类。
 - 常态表情：生无可恋；第 09 镜嘴角克制、眼睛弯一点；第 10 镜调皮但不改变脸型。
 - 声音：内部 `voice_profile_code` 为 `VO-XH-01`；真实声音资产待登记。
